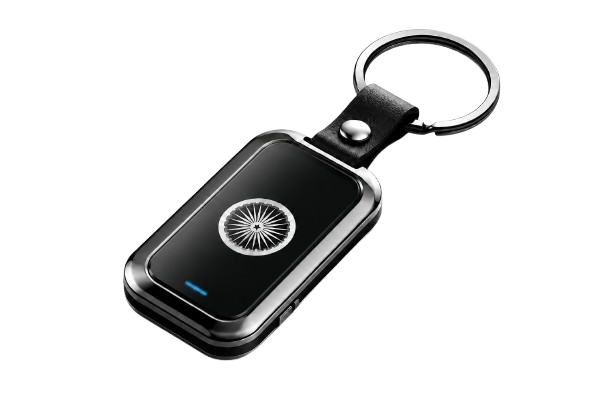
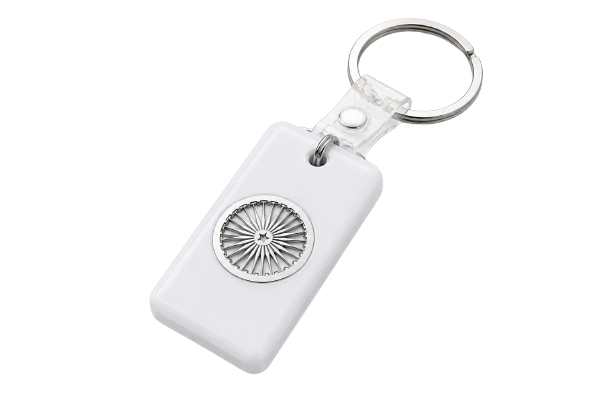
update

Changed region(s): [[0.1863, 0.0294, 0.8382, 0.9412]]

diff --git a/src/app/components/Features.tsx b/src/app/components/Features.tsx
@@ -175,12 +175,20 @@ export function Features() {
                       className="relative"
                     >
 
-                      {/* CARD GLOW */}
-                      <div className="absolute inset-0 rounded-[32px] bg-primary/10 blur-2xl opacity-70 scale-90" />
-
+                      {/* CARD GLOW
+                    <div
+                    className="
+                      absolute inset-0 rounded-[32px]
+                      bg-[radial-gradient(circle_at_center,rgba(212,175,55,0.32),rgba(200,155,44,0.18),transparent_75%)]
+                      blur-2xl opacity-90 scale-90"/> */}
                       <MetallicCard
                         delay={index * 0.05}
                         golden={index % 2 !== 0}
+                        className="
+    [&>div:first-child]:hidden
+    [&>div:nth-child(2)]:hidden
+    [&_.group-hover\\:opacity-100]:opacity-0
+  "
                       >
                         <div className="relative w-[240px] h-[240px] p-6 flex flex-col">
 
@@ -208,78 +216,78 @@ export function Features() {
 
             {/* CENTER RING */}
             <motion.div
-      initial={{ opacity: 0, scale: 0.7 }}
-      whileInView={{ opacity: 1, scale: 1 }}
-      transition={{ duration: 0.6 }}
-      className="absolute left-1/2 top-1/2 -translate-x-1/2 -translate-y-1/2 z-20"
-    >
+              initial={{ opacity: 0, scale: 0.7 }}
+              whileInView={{ opacity: 1, scale: 1 }}
+              transition={{ duration: 0.6 }}
+              className="absolute left-1/2 top-1/2 -translate-x-1/2 -translate-y-1/2 z-20"
+            >
 
-      {/* OUTER GLOW */}
-      <motion.div
-        animate={{
-          scale: [1, 1.12, 1],
-          opacity: [0.4, 0.7, 0.4],
-        }}
-        transition={{
-          repeat: Infinity,
-          duration: 4,
-          ease: "easeInOut",
-        }}
-        className="absolute inset-0 w-72 h-72 rounded-full bg-primary/15 blur-3xl"
-      />
+              {/* OUTER GLOW */}
+              <motion.div
+                animate={{
+                  scale: [1, 1.12, 1],
+                  opacity: [0.4, 0.7, 0.4],
+                }}
+                transition={{
+                  repeat: Infinity,
+                  duration: 4,
+                  ease: "easeInOut",
+                }}
+                className="absolute inset-0 w-72 h-72 rounded-full bg-primary/15 blur-3xl"
+              />
 
-      {/* MAIN CONTAINER */}
-      <motion.div
-        animate={{
-          y: [0, -10, 0],
-        }}
-        transition={{
-          repeat: Infinity,
-          duration: 4,
-          ease: "easeInOut",
-        }}
-        className="
+              {/* MAIN CONTAINER */}
+              <motion.div
+                animate={{
+                  y: [0, -10, 0],
+                }}
+                transition={{
+                  repeat: Infinity,
+                  duration: 4,
+                  ease: "easeInOut",
+                }}
+                className="
           relative w-56 h-56
           flex items-center justify-center
           rounded-full border border-border/50
           bg-gradient-to-br from-muted/40 to-background
           shadow-2xl backdrop-blur-xl overflow-hidden
         "
-      >
+              >
 
-        {/* INNER RING */}
-        <div className="absolute inset-0 rounded-full border border-primary/20 shadow-[0_0_60px_rgba(255,255,255,0.15)]" />
+                {/* INNER RING */}
+                <div className="absolute inset-0 rounded-full border border-primary/20 shadow-[0_0_60px_rgba(255,255,255,0.15)]" />
 
-        {/* IMAGE SWITCH */}
-        <motion.img
-          key={activeImage}
-          src={wearableImages[activeImage]}
-          alt="Wearable Device"
-          initial={{
-            opacity: 0,
-            scale: 0.8,
-            rotate: -10,
-          }}
-          animate={{
-            opacity: 1,
-            scale: 1,
-            rotate: 0,
-          }}
-          exit={{
-            opacity: 0,
-            scale: 0.8,
-          }}
-          transition={{
-            duration: 0.7,
-            ease: "easeOut",
-          }}
-          className="
+                {/* IMAGE SWITCH */}
+                <motion.img
+                  key={activeImage}
+                  src={wearableImages[activeImage]}
+                  alt="Wearable Device"
+                  initial={{
+                    opacity: 0,
+                    scale: 0.8,
+                    rotate: -10,
+                  }}
+                  animate={{
+                    opacity: 1,
+                    scale: 1,
+                    rotate: 0,
+                  }}
+                  exit={{
+                    opacity: 0,
+                    scale: 0.8,
+                  }}
+                  transition={{
+                    duration: 0.7,
+                    ease: "easeOut",
+                  }}
+                  className="
             w-36 h-36 object-contain
             drop-shadow-[0_0_35px_rgba(255,255,255,0.35)]
           "
-        />
-      </motion.div>
-    </motion.div>
+                />
+              </motion.div>
+            </motion.div>
 
 
           </div>

diff --git a/src/app/components/MetallicCard.tsx b/src/app/components/MetallicCard.tsx
@@ -32,13 +32,13 @@ export function MetallicCard({
           ${golden
             ? `
                bg-gradient-to-r 
-              from-[#C9A84C]/70 
-              via-[#E8C97A]/50 
-              to-[#D4AF37]/70
+              from-[#D4AF37]/80
+via-[#F4C542]/60
+to-[#C89B2C]/80
 
-              dark:from-[#D4AF37]/60
-              dark:via-[#F5D97A]/40
-              dark:to-[#C9A84C]/60
+dark:from-[#D4AF37]/70
+dark:via-[#F4C542]/50
+dark:to-[#C89B2C]/70
               `
             : `
                 bg-gradient-to-r 
@@ -57,13 +57,13 @@ export function MetallicCard({
           ${golden
             ? `
                bg-gradient-to-br 
-from-[#FFF4CC]/18
-via-[#FFE8A3]/8
-to-[#E8C97A]/10
+from-[#FFF0B2]/22
+via-[#FFD54A]/10
+to-[#D4AF37]/14
 
-dark:from-[#FFF4CC]/14
-dark:via-[#FFD86B]/10
-dark:to-[#E8C97A]/10
+dark:from-[#FFF0B2]/18
+dark:via-[#FFC933]/12
+dark:to-[#D4AF37]/12
               `
             : `
                 bg-gradient-to-br 
@@ -84,7 +84,7 @@ dark:to-[#E8C97A]/10
             ? `
                 bg-gradient-to-tr 
                 from-transparent 
-                via-[#FFF4CC]/20 
+                via-[#FFE27A]/28
                 to-transparent
               `
             : `
@@ -105,16 +105,15 @@ dark:to-[#E8C97A]/10
           ${golden
             ? `
                 bg-gradient-to-br 
-from-[#C9A84C]/35
-via-[#D4AF37]/22
-to-[#E8C97A]/28
-border-[#E8C97A]/35
+from-[#F4C542]/55
+via-[#D4AF37]/38
+to-[#C89B2C]/45
+border-[#E6BE4A]/50
 
-dark:from-[#D4AF37]/30
-dark:via-[#C9A84C]/22
-dark:to-[#F5D97A]/20
-dark:border-[#F5D97A]/30
-
+dark:from-[#E6BE4A]/40
+dark:via-[#D4AF37]/32
+dark:to-[#C89B2C]/30
+dark:border-[#F4C542]/45
               `
             : `
                 bg-gradient-to-br 
@@ -134,9 +133,9 @@ dark:border-[#F5D97A]/30
             ${golden
               ? `
                   bg-gradient-to-br 
-from-[#FFE8A3]/18
-via-[#FFD86B]/8
-to-[#D4AF37]/14
+from-[#FFE27A]/30
+via-[#F4C542]/14
+to-[#D4AF37]/22
                 `
               : `
                   bg-gradient-to-br 

diff --git a/src/app/pages/PersonnelPage.tsx b/src/app/pages/PersonnelPage.tsx
@@ -351,14 +351,21 @@ export function PersonnelPage() {
 
               <MetallicCard
                 golden
-                className="w-[300px] relative z-10">
+                className="
+    w-[300px] relative z-10
+
+    [&>div:first-child]:hidden
+    [&>div:nth-child(2)]:hidden
+    [&_.group-hover\\:opacity-100]:opacity-0
+  "
+              >
                 <div className="space-y-6 text-center">
 
                   {/* ICON + TITLE */}
                   <div className="flex items-center justify-center gap-4">
 
                     <div className="w-6 h-2 rounded-2xl bg-yellow-500/10 border border-yellow-400/20 flex items-center justify-center">
-                      <Wallet className="w-8 h-8 text-yellow-400" />
+                      <Wallet className="w-8 h-8 text-gray-700" />
                     </div>
 
                     <div className="text-left">
@@ -366,7 +373,7 @@ export function PersonnelPage() {
                         Master Wallet
                       </p>
 
-                      <p className="text-xs uppercase tracking-[0.25em] text-yellow-400/70">
+                      <p className="text-xs uppercase tracking-[0.25em] text-gray-700">
                         Balance
                       </p>
                     </div>
@@ -525,15 +532,15 @@ export function PersonnelPage() {
 
                 <div className="flex gap-4 flex-wrap">
                   <Button
-                className="rounded-xl px-7 py-6 text-base font-semibold text-black border border-white/10"
-                style={{
-                  background:
-                    "linear-gradient(90deg,#D4AF37, #C89B2C)",
-                  boxShadow:
-                    "0 4px 18px rgba(212,175,55,0.25)",
-                }}
-              > Get aKoin Ring
-              </Button>
+                    className="rounded-xl px-7 py-6 text-base font-semibold text-black border border-white/10"
+                    style={{
+                      background:
+                        "linear-gradient(90deg,#D4AF37, #C89B2C)",
+                      boxShadow:
+                        "0 4px 18px rgba(212,175,55,0.25)",
+                    }}
+                  > Get aKoin Ring
+                  </Button>
 
                   <Button
                     variant="outline"